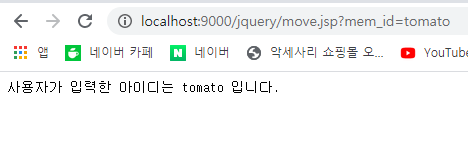
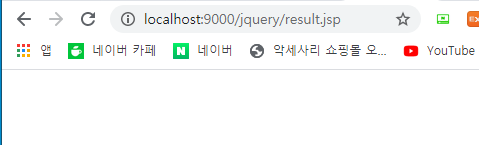
GitBook: [master] 5 pages and 7 assets modified

diff --git a/1-days/untitled-13/untitled.md b/1-days/untitled-13/untitled.md
@@ -1,0 +1,160 @@
+# Untitled
+
+![](../../.gitbook/assets/2%20%2830%29.png)
+
+```markup
+<!DOCTYPE html>
+<html>
+<head>
+<meta charset="UTF-8">
+<title>Insert title here</title>
+<!-- import 네트워트를 통해 서버의 jquery연결하기 정상적으로 찾았다면 브라우저에서 status 200이 떨어질 것이다. -->
+<!-- 이 코드가 없으면 12번 라인의 alert도 실행되지 않고 개발자도구를 확인하면 $를 사용할수 없다는 등의 오류를 발견할 수 있다. -->
+<script type="text/javascript" src="http://192.168.0.187:9000/js/jquery-3.5.1.min.js"></script>
+
+<style type="text/css">
+	input[type=text] {background:green;}
+</style>
+</head>
+
+<body>
+<!-- jquery가 지원하지 않는 API는 표준 스크립트를 사용해야 하므로 선언 수 사용을 원칙으로 하고,
+ 	 순서를 변경할 때에는 반드시 dom스캔 먼저 확인후에 처리하는 것을 원칙으로 해야한다.
+ 	 jquery는 돔 구성이 완료된 상태에서 동작한다. 10-12번 뒤에 동작한다. -->
+<script type="text/javascript">
+	//alert("호출이 없어도 실행됨"+$("#txt"));//JQuery는 선언이 뒤에있는 id라도 찾아준다.
+	$(document).ready(function(){//DOM구성이 완료 되었을때
+		$("#txt").css("color","red");
+		$("#t_id").css("background","yellow");
+		$("#f").attr("method","get");
+		$("#f").attr("action","p169Action.jsp");
+		//$("#f").submit();
+	});
+</script>
+<p id="txt">제이쿼리로 선택자 접근하기</p>
+<form id="f" action="p169Action.jsp" method="post">
+	<input type="text" id="t_id" value="apple"/>
+</form>
+<script type="text/javascript">
+	alert("무조건 실행됨");
+</script>
+</body>
+</html>
+```
+
+![](../../.gitbook/assets/3%20%2826%29.png)
+
+```markup
+<!DOCTYPE html>
+<html>
+<head>
+<meta charset="UTF-8">
+<title>Insert title here</title>
+<!-- import 네트워트를 통해 서버의 jquery연결하기 정상적으로 찾았다면 브라우저에서 status 200이 떨어질 것이다. -->
+<!-- 이 코드가 없으면 12번 라인의 alert도 실행되지 않고 개발자도구를 확인하면 오류를 발견할 수 있다. -->
+<script type="text/javascript" src="http://192.168.0.187:9000/js/jquery-3.5.1.min.js"></script>
+
+<style type="text/css">
+	.class0 {background:green;}
+	.class1 {background:orange;}
+	.class2 {background:gray;}
+</style>
+</head>
+
+<body>
+<!-- jquery가 지원하지 않는 API는 표준 스크립트를 사용해야 하므로 선언 수 사용을 원칙으로 하고,
+ 	 순서를 변경할 때에는 반드시 dom스캔 먼저 확인후에 처리하는 것을 원칙으로 해야한다.
+ 	 jquery는 돔 구성이 완료된 상태에서 동작한다. 10-12번 뒤에 동작한다. -->
+<script type="text/javascript">
+	//alert("호출이 없어도 실행됨"+$("#txt"));//JQuery는 선언이 뒤에있는 id라도 찾아준다.
+	$(document).ready(function(){//DOM구성이 완료 되었을때
+		//css에서 선언된 class속성을 add한다.h1이 여러개 이므로 브라우저가 배열로 인식해준다.=index를 사용해 for문 없이도 h1갯수만큼 함수가 진행된다.
+		$("h1").addClass(function(index){//index가 0인 h1은 class0번 스타일이, index 1인 h1은 class1번 스타일이, ....
+			return "class"+index;
+		});
+	});
+</script>
+<h1>header-0</h1>
+<h1>header-1</h1>
+<h1>header-2</h1>
+</body>
+</html>
+```
+
+![](../../.gitbook/assets/4%20%2820%29.png)
+
+![](../../.gitbook/assets/5%20%2814%29.png)
+
+```markup
+<!DOCTYPE html>
+<html>
+<head>
+<meta charset="UTF-8">
+<title>Insert title here</title>
+<script type="text/javascript" src="https://cdnjs.cloudflare.com/ajax/libs/jquery/3.5.1/jquery.min.js"></script>
+<script type="text/javascript">
+	function add(){//form전송
+		$("#f_member").attr("method","get");
+		$("#f_member").attr("action","memberShipAction.jsp");
+		$("#f_member").submit();
+	}
+	function add2(){//페이지 직접 이동하기, 정보 전송은 이루어지지 않는다.
+		location.href="memberShipAction.jsp";
+	}
+</script>
+</head>
+<body>
+<form id="f_member">
+	<table align="center" border="1" borderColor="red" width="500">
+		<tr>
+			<th width="150">이름 : </th>
+			<td width="350">
+			<input type="text" size="12">
+			<div id="d_name"></div>
+			</td>
+		</tr>
+		<tr>
+			<th width="150">아이디 : </th>
+			<td width="350">
+			<input type="text" size="12">
+			<div id="mem_id"></div>
+			</td>
+		</tr>
+		<tr>
+			<th width="150">패스워드 : </th>
+			<td width="350">
+			<input type="text" size="12">
+			<div id="mem_pw"></div>
+			</td>
+		</tr>
+		<tr>
+			<th width="150">패스워드확인 : </th>
+			<td width="350">
+			<input type="text" size="12">
+			<div id="mem_pw_check"></div>
+			</td>
+		</tr>
+		<tr>
+			<th width="100%" colspan="2" align="center">
+			<button onClick="add()">가입</button>
+			<button onClick="cancel()">취소</button>
+			</th>
+		</tr>
+	</table>
+</form>
+</body>
+</html>
+```
+
+```markup
+<%@ page language="java" contentType="text/html; charset=UTF-8"
+    pageEncoding="UTF-8"%>
+<%
+	//스크립틀릿 : 자바코딩을 할 수 있는 영역
+	String mem_id = request.getParameter("mem_id");
+	//if, for 제어문, 사칙연산(알고리즘, 업무처리(비즈니스로직))을 작성한다. 
+	response.sendRedirect("result.jsp");//화면출력은 다른 jsp페이지에서 해야한다.
+%>
+<!-- html영역 -->
+```
+

diff --git a/1-days/untitled-13/jsp-html-start.html-move.jsp.md b/1-days/untitled-13/jsp-html-start.html-move.jsp.md
@@ -18,7 +18,7 @@
 
 * 기본형태
 
-![](../../.gitbook/assets/2%20%2830%29.png)
+![](../../.gitbook/assets/2%20%2831%29.png)
 
 * 이동 링트에 커서를 올리면 하단에 이동할 주소가 나타난다.
 
@@ -52,7 +52,7 @@
 </html>
 ```
 
-![](../../.gitbook/assets/5%20%2814%29.png)
+![](../../.gitbook/assets/5%20%2815%29.png)
 
 ```markup
 <%@ page language="java" contentType="text/html; charset=UTF-8"
@@ -69,7 +69,7 @@
 
 ![1](../../.gitbook/assets/1%20%2841%29.png)
 
-![2](../../.gitbook/assets/2%20%2832%29.png)
+![2](../../.gitbook/assets/2%20%2833%29.png)
 
 ![&#xC774;&#xB3D9; &#xD074;&#xB9AD;&#xC2DC;](../../.gitbook/assets/3%20%2824%29.png)
 

diff --git a/SUMMARY.md b/SUMMARY.md
@@ -179,7 +179,8 @@
     * [cssStep.hrml - CSS선택자](1-days/untitled-13/cssstep.hrml-css.md)
     * [jQueryMembershipAction](1-days/untitled-13/jquerymembershipaction.md)
     * [JSP, HTML 연결 - start.html, move.jsp](1-days/untitled-13/jsp-html-start.html-move.jsp.md)
-    * [이미지에 css클래스 반영 - cssStep3](1-days/untitled-13/css-cssstep3.md)
+    * [여러 이미지에 CSS 반영 - cssStep3](1-days/untitled-13/css-cssstep3.md)
+    * [Untitled](1-days/untitled-13/untitled.md)
   * [Untitled](1-days/untitled-14.md)
   * [Untitled](1-days/untitled-12.md)
 

diff --git a/1-days/untitled-13/README.md b/1-days/untitled-13/README.md
@@ -190,7 +190,7 @@ description: 2020.10.22 - 47일차
 
 ## CSS
 
-### img에 css 클래스 적용
+### 여러 img에 css 적용하기
 
 * head영역안에서 CSS영역에 스타일 클래스 생성
 * 여러 이미지인 경우 tag name을 사용해 스타일을 적용한다. - img\[src$=jpg\] - img배열 중에 jpg로 끝나는 개체에게 style을 적용할 수 있다.

diff --git a/1-days/untitled-13/css-cssstep3.md b/1-days/untitled-13/css-cssstep3.md
@@ -1,4 +1,4 @@
-# 이미지에 css클래스 반영 - cssStep3
+# 여러 이미지에 CSS 반영 - cssStep3
 
 ![&#xBE0C;&#xB77C;&#xC6B0;&#xC800;](../../.gitbook/assets/1%20%2842%29.png)
 
